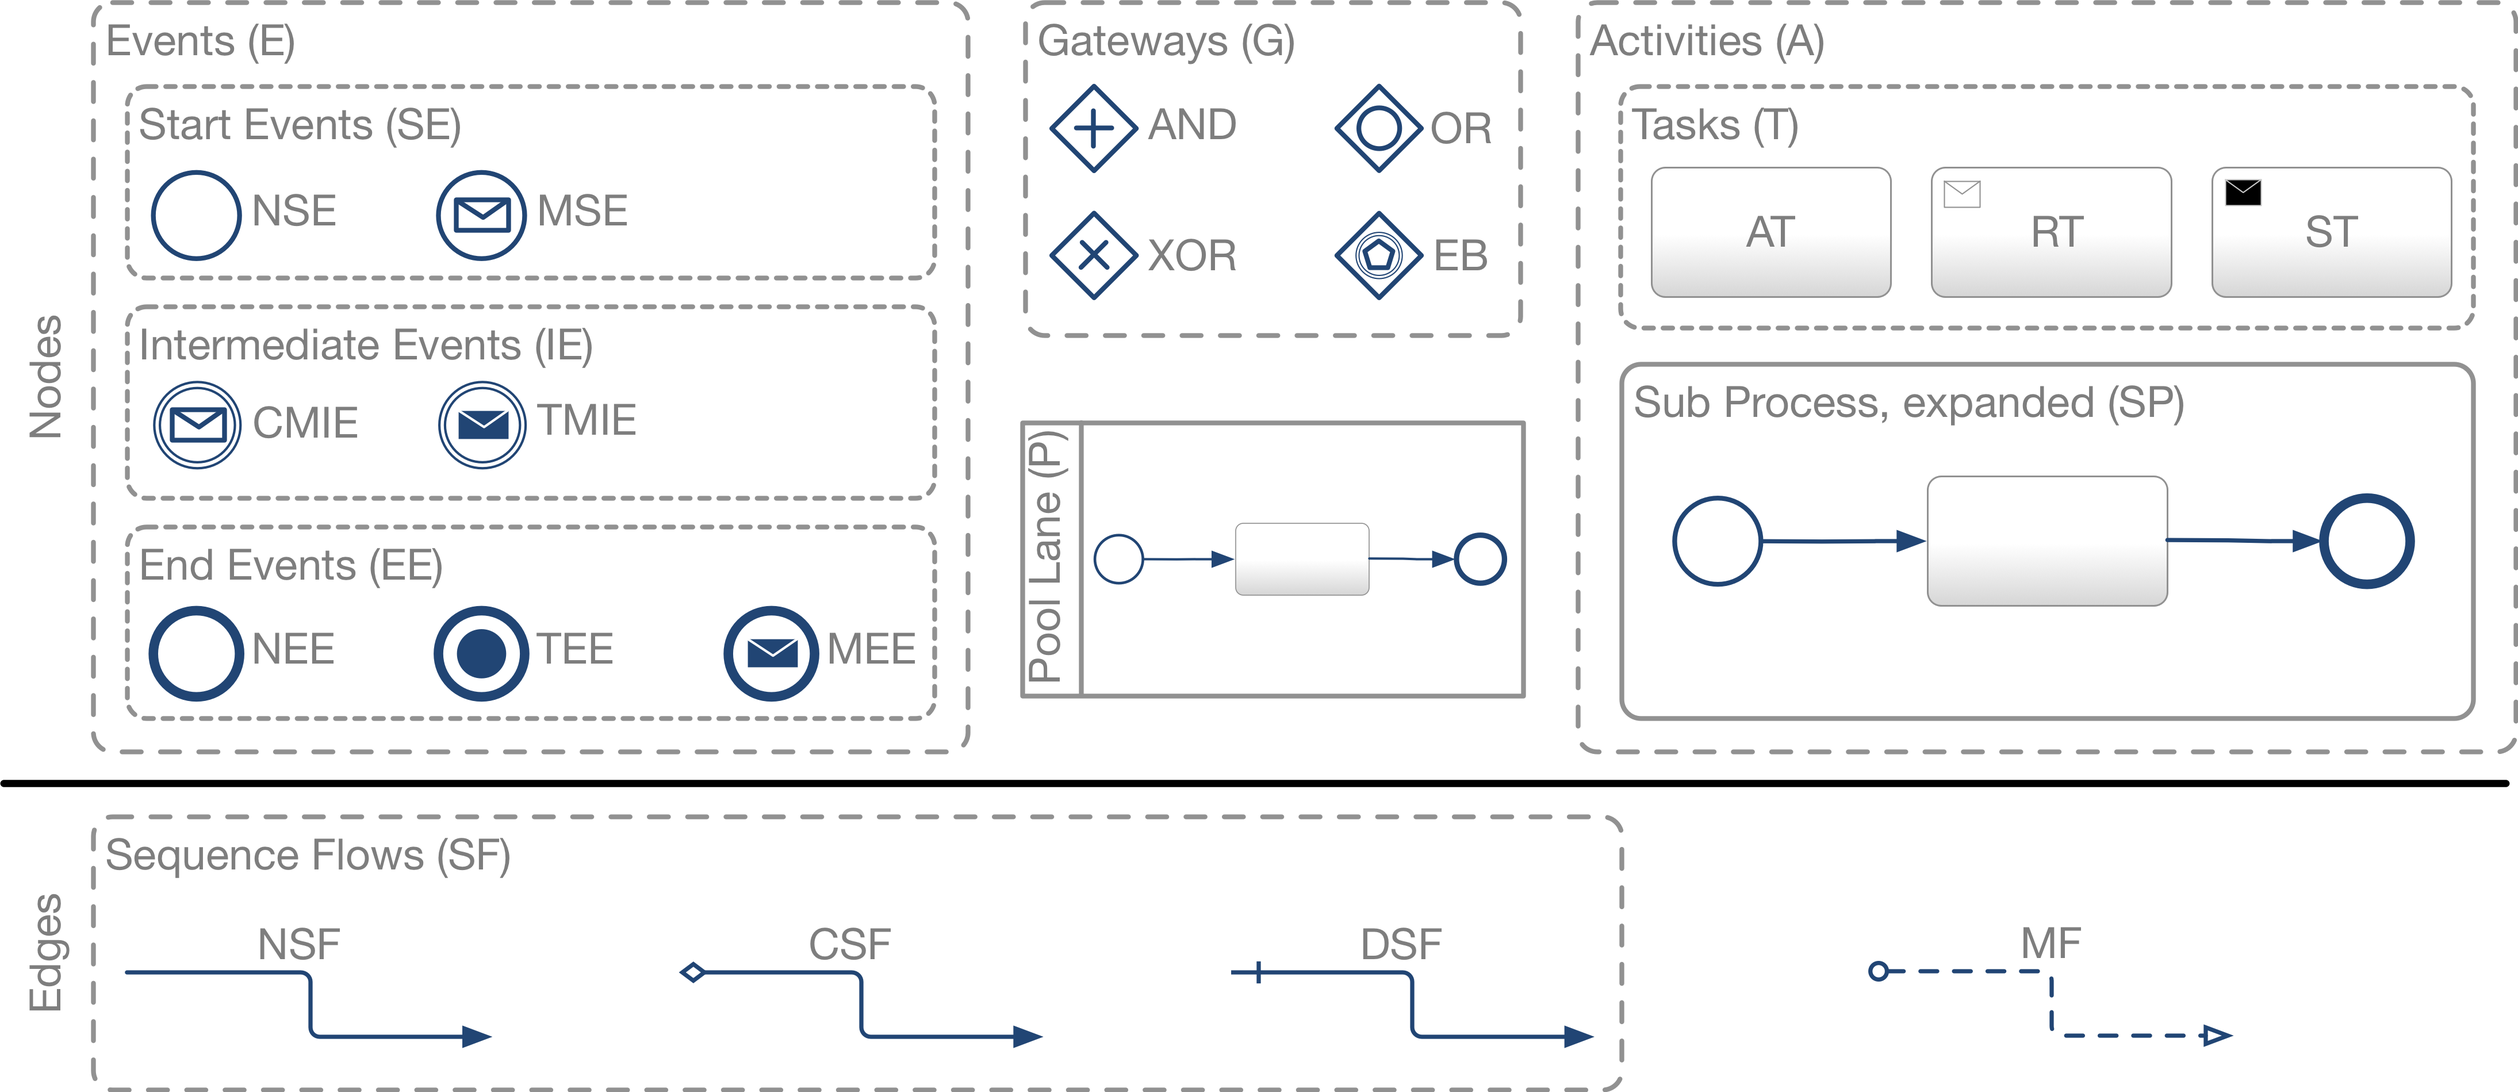
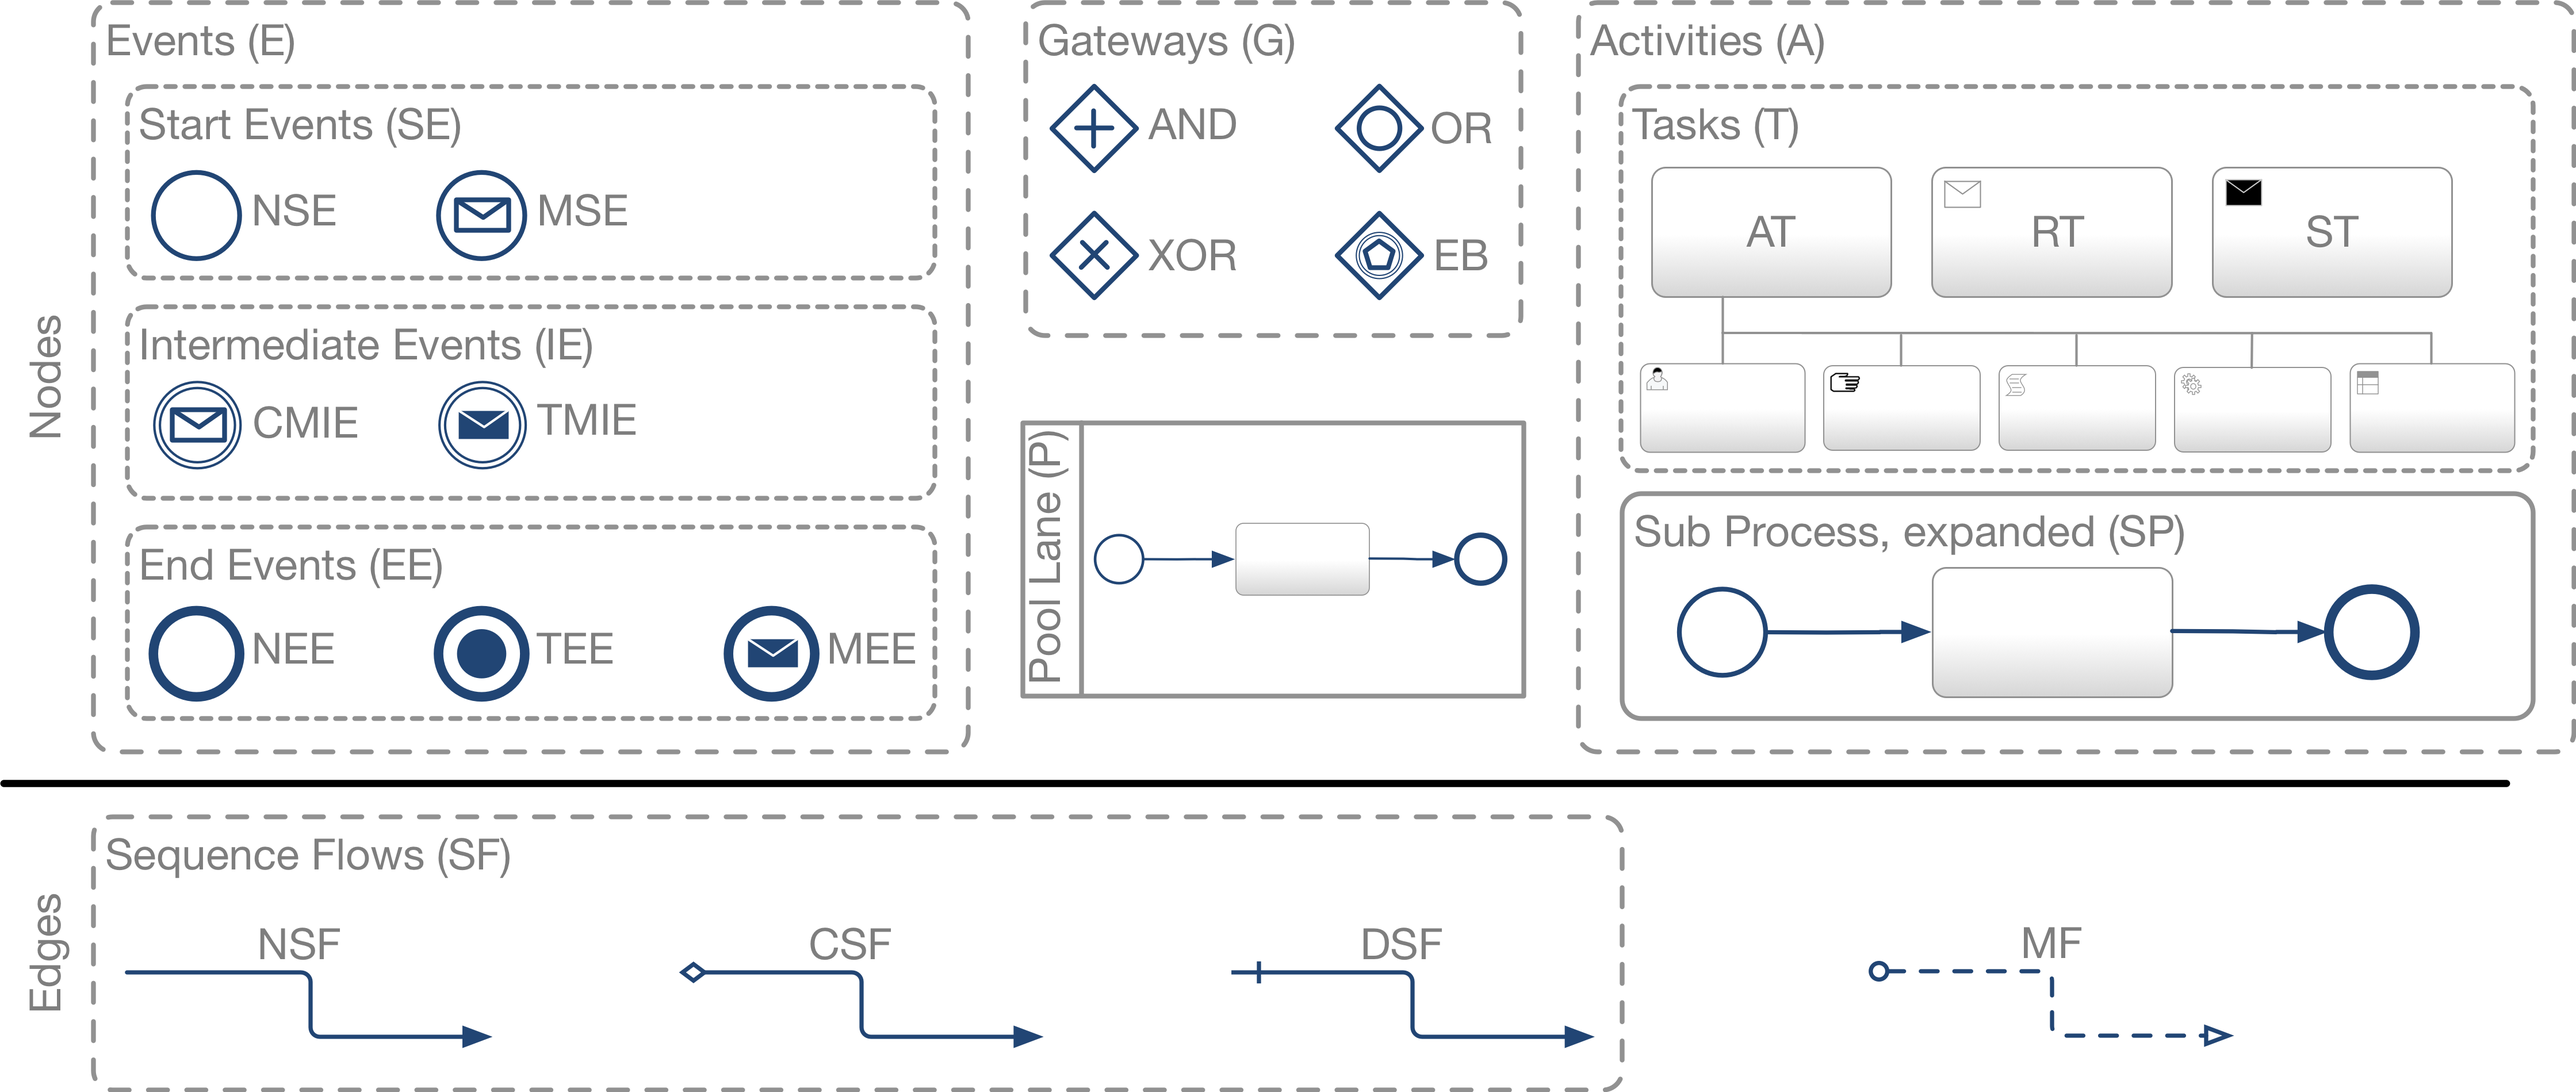
feat: update bpmn figure (for types of tasks treated as AT)

diff --git a/README.md b/README.md
@@ -99,6 +99,9 @@ XorGateway | OrGateway | AndGateway | EventBasedGateway |
 NoneStartEvent | MessageStartEvent | NoneEndEvent | TerminateEndEvent | MessageEndEvent
 ```
 
+Please note that some kinds of BPMN tasks are treated as `AbstractTask`s in the semantics.
+If you have manual tasks, user tasks, service tasks, script tasks, or business rule tasks, you may use directly `AbstractTask` in your JSON model.
+
 Edge categories are:
 
 ```
